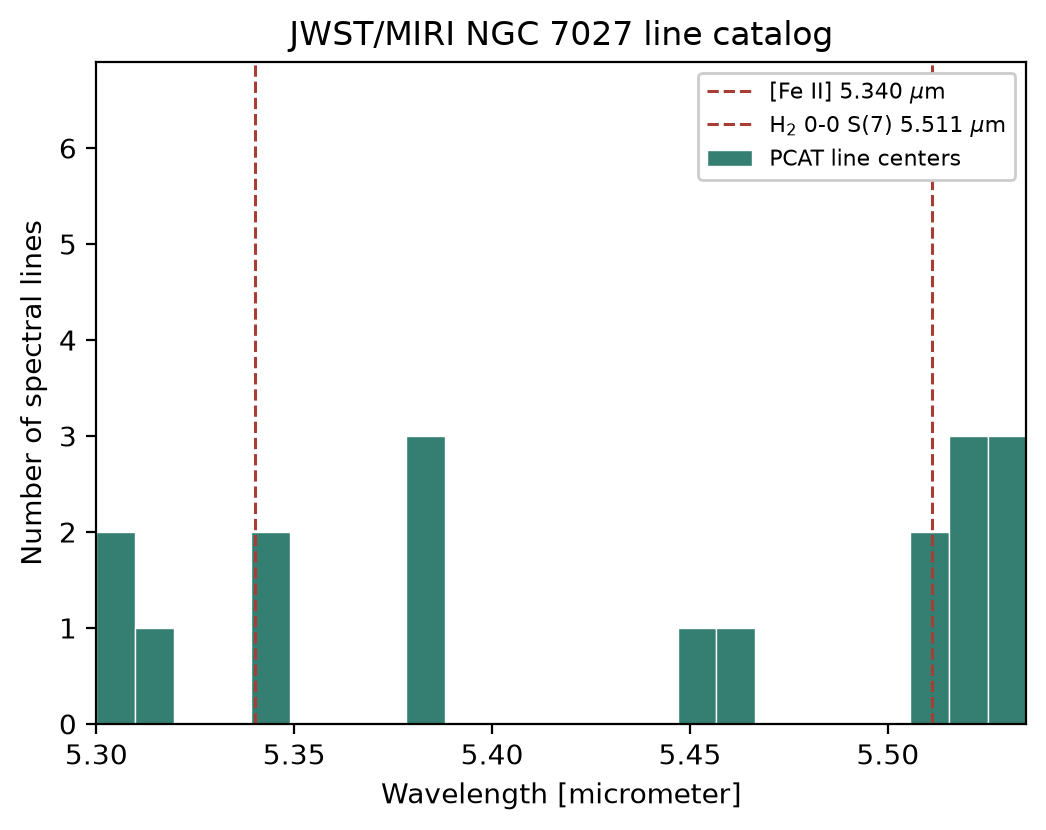
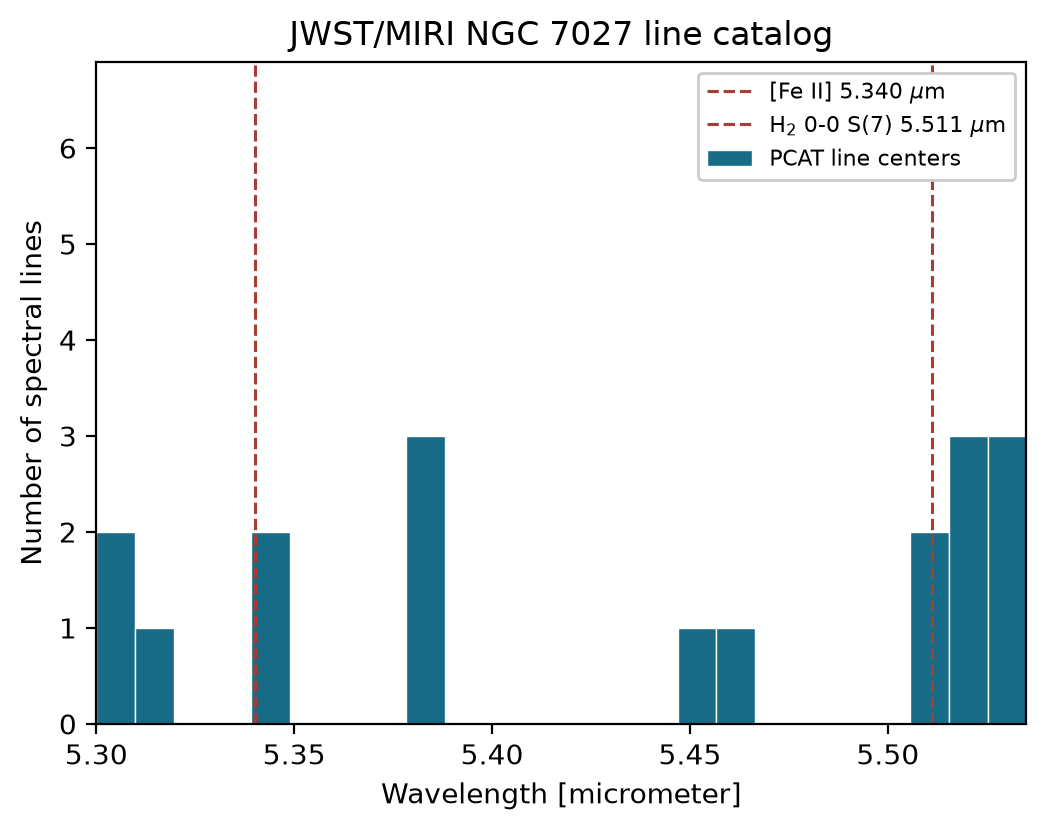
Update inference examples and diagnostics

diff --git a/examples/proposal_profiling/proposal_profiling.py b/examples/proposal_profiling/proposal_profiling.py
@@ -12,7 +12,6 @@ summarizes both.
 from tdpy.verbosity import print
 
 import argparse
-import builtins
 from tdpy.cli import add_plot_arguments
 import shutil
 import sys
@@ -176,20 +175,20 @@ def main():
     plot_acceptance_and_cost(chain, arguments.typefileplot)
     plot_time_breakdown_by_phase(chain, arguments.typefileplot)
     timetotl = chain["time"].sum()
-    builtins.print(f"Recorded sweep time: {timetotl / 1e3:.2f} s across "
-                    f"{chain['time'].size} sweeps ({chain['time'].mean():.3f} ms/sweep, "
-                    f"{1e3 / chain['time'].mean():.0f} sweeps/s)")
+    print(f"Recorded sweep time: {timetotl / 1e3:.2f} s across "
+          f"{chain['time'].size} sweeps ({chain['time'].mean():.3f} ms/sweep, "
+          f"{1e3 / chain['time'].mean():.0f} sweeps/s)")
     if time_sampler is not None:
-        builtins.print(f"PCAT sampler wall time: {time_sampler:.2f} s")
-    builtins.print("Proposal             Sweeps  Acceptance  Median [ms]  Runtime share")
+        print(f"PCAT sampler wall time: {time_sampler:.2f} s")
+    print("Proposal             Sweeps  Acceptance  Median [ms]  Runtime share")
     for k, label in enumerate(LABELS):
         indx = chain["type"] == k
         if indx.any():
             timeprop = chain["time"][indx]
             fracruntime = timeprop.sum() / timetotl
-            builtins.print(f"{label:<20} {indx.sum():>6}  "
-                        f"{chain['accp'][indx].mean():>10.3f}  "
-                        f"{np.median(timeprop):>11.3f}  {fracruntime:>12.1%}")
+            print(f"{label:<20} {indx.sum():>6}  "
+                f"{chain['accp'][indx].mean():>10.3f}  "
+                f"{np.median(timeprop):>11.3f}  {fracruntime:>12.1%}")
 
 
 if __name__ == "__main__":

diff --git a/tests/test_posterior_animation_collage.py b/tests/test_posterior_animation_collage.py
@@ -81,11 +81,41 @@ def test_collage_places_spectral_fit_logo_and_variable_starspots_in_requested_pa
     assert panels[4].static_image == "docs/_static/pcat_logo.png"
     assert panels[4].pattern is None
     assert "Roman/WFI detector image" in panels[5].label
-    assert "strong-lens arcs" in panels[5].label
+    assert "strong-lens arc and compact counterimage" in panels[5].label
     assert "PCAT flare catalog" in panels[6].label
     assert "variable-number exoplanets" in panels[7].label
     assert "transit-time series" in panels[8].label
+    assert panels[8].pattern == "transit_timing_variations/visuals/ttv_posterior_*_swep*.png"
     assert all("deflection" not in panel.label.lower() for panel in panels)
+
+
+def test_miri_posterior_line_histogram_uses_blue_model(tmp_path, monkeypatch):
+    from matplotlib import pyplot as plt
+    from types import SimpleNamespace
+
+    example = load_example_namespace(
+        "jwst_miri_ngc7027_line_catalog/jwst_miri_ngc7027_line_catalog.py"
+    )
+    example["EXAMPLE_PATH"] = tmp_path
+    colors = []
+    original_bar = plt.Axes.bar
+
+    def capture_bar(axis, *args, **kwargs):
+        colors.append(kwargs.get("color"))
+        return original_bar(axis, *args, **kwargs)
+
+    monkeypatch.setattr(plt.Axes, "bar", capture_bar)
+    wavenumber = 1e6 / np.array([5.34, 5.5112])
+    posterior = SimpleNamespace(listpostdictelem=[
+        [{"elin": wavenumber}],
+        [{"elin": wavenumber}],
+    ])
+
+    paths = example["render_line_histogram_frames"](posterior)
+
+    assert len(paths) == 2
+    assert colors == ["#176B87", "#176B87"]
+    assert all(path.is_file() for path in paths)
 
 
 def test_animation_frames_use_one_shared_palette():

diff --git a/examples/transit_timing_variations/transit_timing_variations.py b/examples/transit_timing_variations/transit_timing_variations.py
@@ -61,7 +61,7 @@ def render_ttv_posterior_frames(data, snapshots, run_tag):
               for snapshot in snapshots]
     # data-based limits keep the axis fixed even when early burn-in models lie far off
     maximum_minutes = 1.6 * np.max(np.abs(measured_minutes) + errors * MINUTES_PER_DAY)  # [minute]
-    output = ROOT / "visuals" / f"ttv_posterior_{run_tag}"
+    output = ROOT / "visuals"
     output.mkdir(parents=True, exist_ok=True)
     paths = []
     for snapshot, curve in zip(snapshots, curves):
@@ -74,7 +74,7 @@ def render_ttv_posterior_frames(data, snapshots, run_tag):
                  title=animation_phase_label(snapshot))
         axis.grid(False)
         axis.legend(loc="upper right", framealpha=1, facecolor="white")
-        path = output / f"ttv_posterior_swep{snapshot['cntrswep']:09d}.png"
+        path = output / f"ttv_posterior_{run_tag}_swep{snapshot['cntrswep']:09d}.png"
         print(f"Writing to {path}...")
         figure.savefig(path, dpi=200, bbox_inches="tight", facecolor="white")
         plt.close(figure)

diff --git a/pcat/plotting.py b/pcat/plotting.py
@@ -482,7 +482,7 @@ POSTERIOR_ANIMATION_PANELS = (
         static_image="docs/_static/pcat_logo.png",
     ),
     PosteriorAnimationPanel(
-        "Roman/WFI detector image | simulated strong-lens arcs",
+        "Roman/WFI detector image | strong-lens arc and compact counterimage",
         "roman_strong_lens_perturber_catalog/visuals/roman_wfi_lensed_posterior_swep*.png",
     ),
     PosteriorAnimationPanel(
@@ -495,7 +495,7 @@ POSTERIOR_ANIMATION_PANELS = (
     ),
     PosteriorAnimationPanel(
         "Simulated TTV | transit-time series",
-        "transit_timing_variations/visuals/ttv_posterior_*/ttv_posterior_swep*.png",
+        "transit_timing_variations/visuals/ttv_posterior_*_swep*.png",
     ),
 )
 

diff --git a/examples/jwst_miri_ngc7027_line_catalog/jwst_miri_ngc7027_line_catalog.py b/examples/jwst_miri_ngc7027_line_catalog/jwst_miri_ngc7027_line_catalog.py
@@ -166,7 +166,7 @@ def render_line_histogram_frames(posterior):
     paths = []
     for index, histogram in histograms:
         figure, axis = plt.subplots(figsize=(6.0, 4.3), facecolor="white")
-        axis.bar(edges[:-1], histogram, width=np.diff(edges), align="edge", color="#347F72",
+        axis.bar(edges[:-1], histogram, width=np.diff(edges), align="edge", color="#176B87",
                  edgecolor="white", linewidth=0.5, label="PCAT line centers")
         for label, wavelength in LINES_IDENTIFIED.items():
             axis.axvline(wavelength, color="#A83D36", lw=1.1, ls="--", label=label)

diff --git a/README.md b/README.md
@@ -56,10 +56,12 @@ follow burn-in for the first third of the animation, and show posterior samples
 for the remaining two thirds. They show an unbinned Gaussian mixture of
 simulated events, Daylan+2017 northern Galactic cap Fermi-LAT point sources,
 the observed JWST/MIRI NGC 7027 spectral fit, a stellar light curve with a
-variable number of rotating starspots, Roman/WFI strong-lens arcs, stellar
-flares, radial velocities, and transit times. Time-series and spectral axes
-remain fixed across frames. The publication-inspired simulations illustrate
-PCAT's sampling behavior and do not reproduce published posterior values.
+variable number of rotating starspots, and the Roman/WFI lens's outer arc and
+compact inner counterimage, plus stellar flares, radial velocities, and transit
+times. The Roman source is one extended Gaussian; no independent point source is
+included. Time-series and spectral axes remain fixed across frames. The
+publication-inspired simulations illustrate PCAT's sampling behavior and do not
+reproduce published posterior values.
 
 ## Every proposed state
 

diff --git a/docs/index.rst b/docs/index.rst
@@ -38,8 +38,9 @@ target.
    :align: center
 
 The animation shows nine changing inference views, including unbinned mixtures,
-simulated gamma-ray point sources, Roman strong-lens arcs, observed JWST/MIRI
-line catalogs, radial velocities, transit timings, and stellar-flare photometry.
+simulated gamma-ray point sources, a Roman/WFI outer lensing arc and compact
+inner counterimage of one extended source, observed JWST/MIRI line catalogs,
+radial velocities, transit timings, and stellar-flare photometry.
 Time-series and histogram axes remain fixed across frames, and the GIF uses one
 shared color palette. Only the JWST/MIRI spectrum uses observed data.
 

diff --git a/docs/api.rst b/docs/api.rst
@@ -5,8 +5,8 @@ Sampling
 --------
 
 PCAT exposes its sampling interfaces in ``pcat.sampling``. These functions
-support inference within one model, transdimensional catalog inference, and
-multiple-chain runs.
+support inference within one model, transdimensional inference over metamodels,
+and multiple-chain runs.
 
 .. py:function:: pcat.sampling.sample(**configuration)
 
